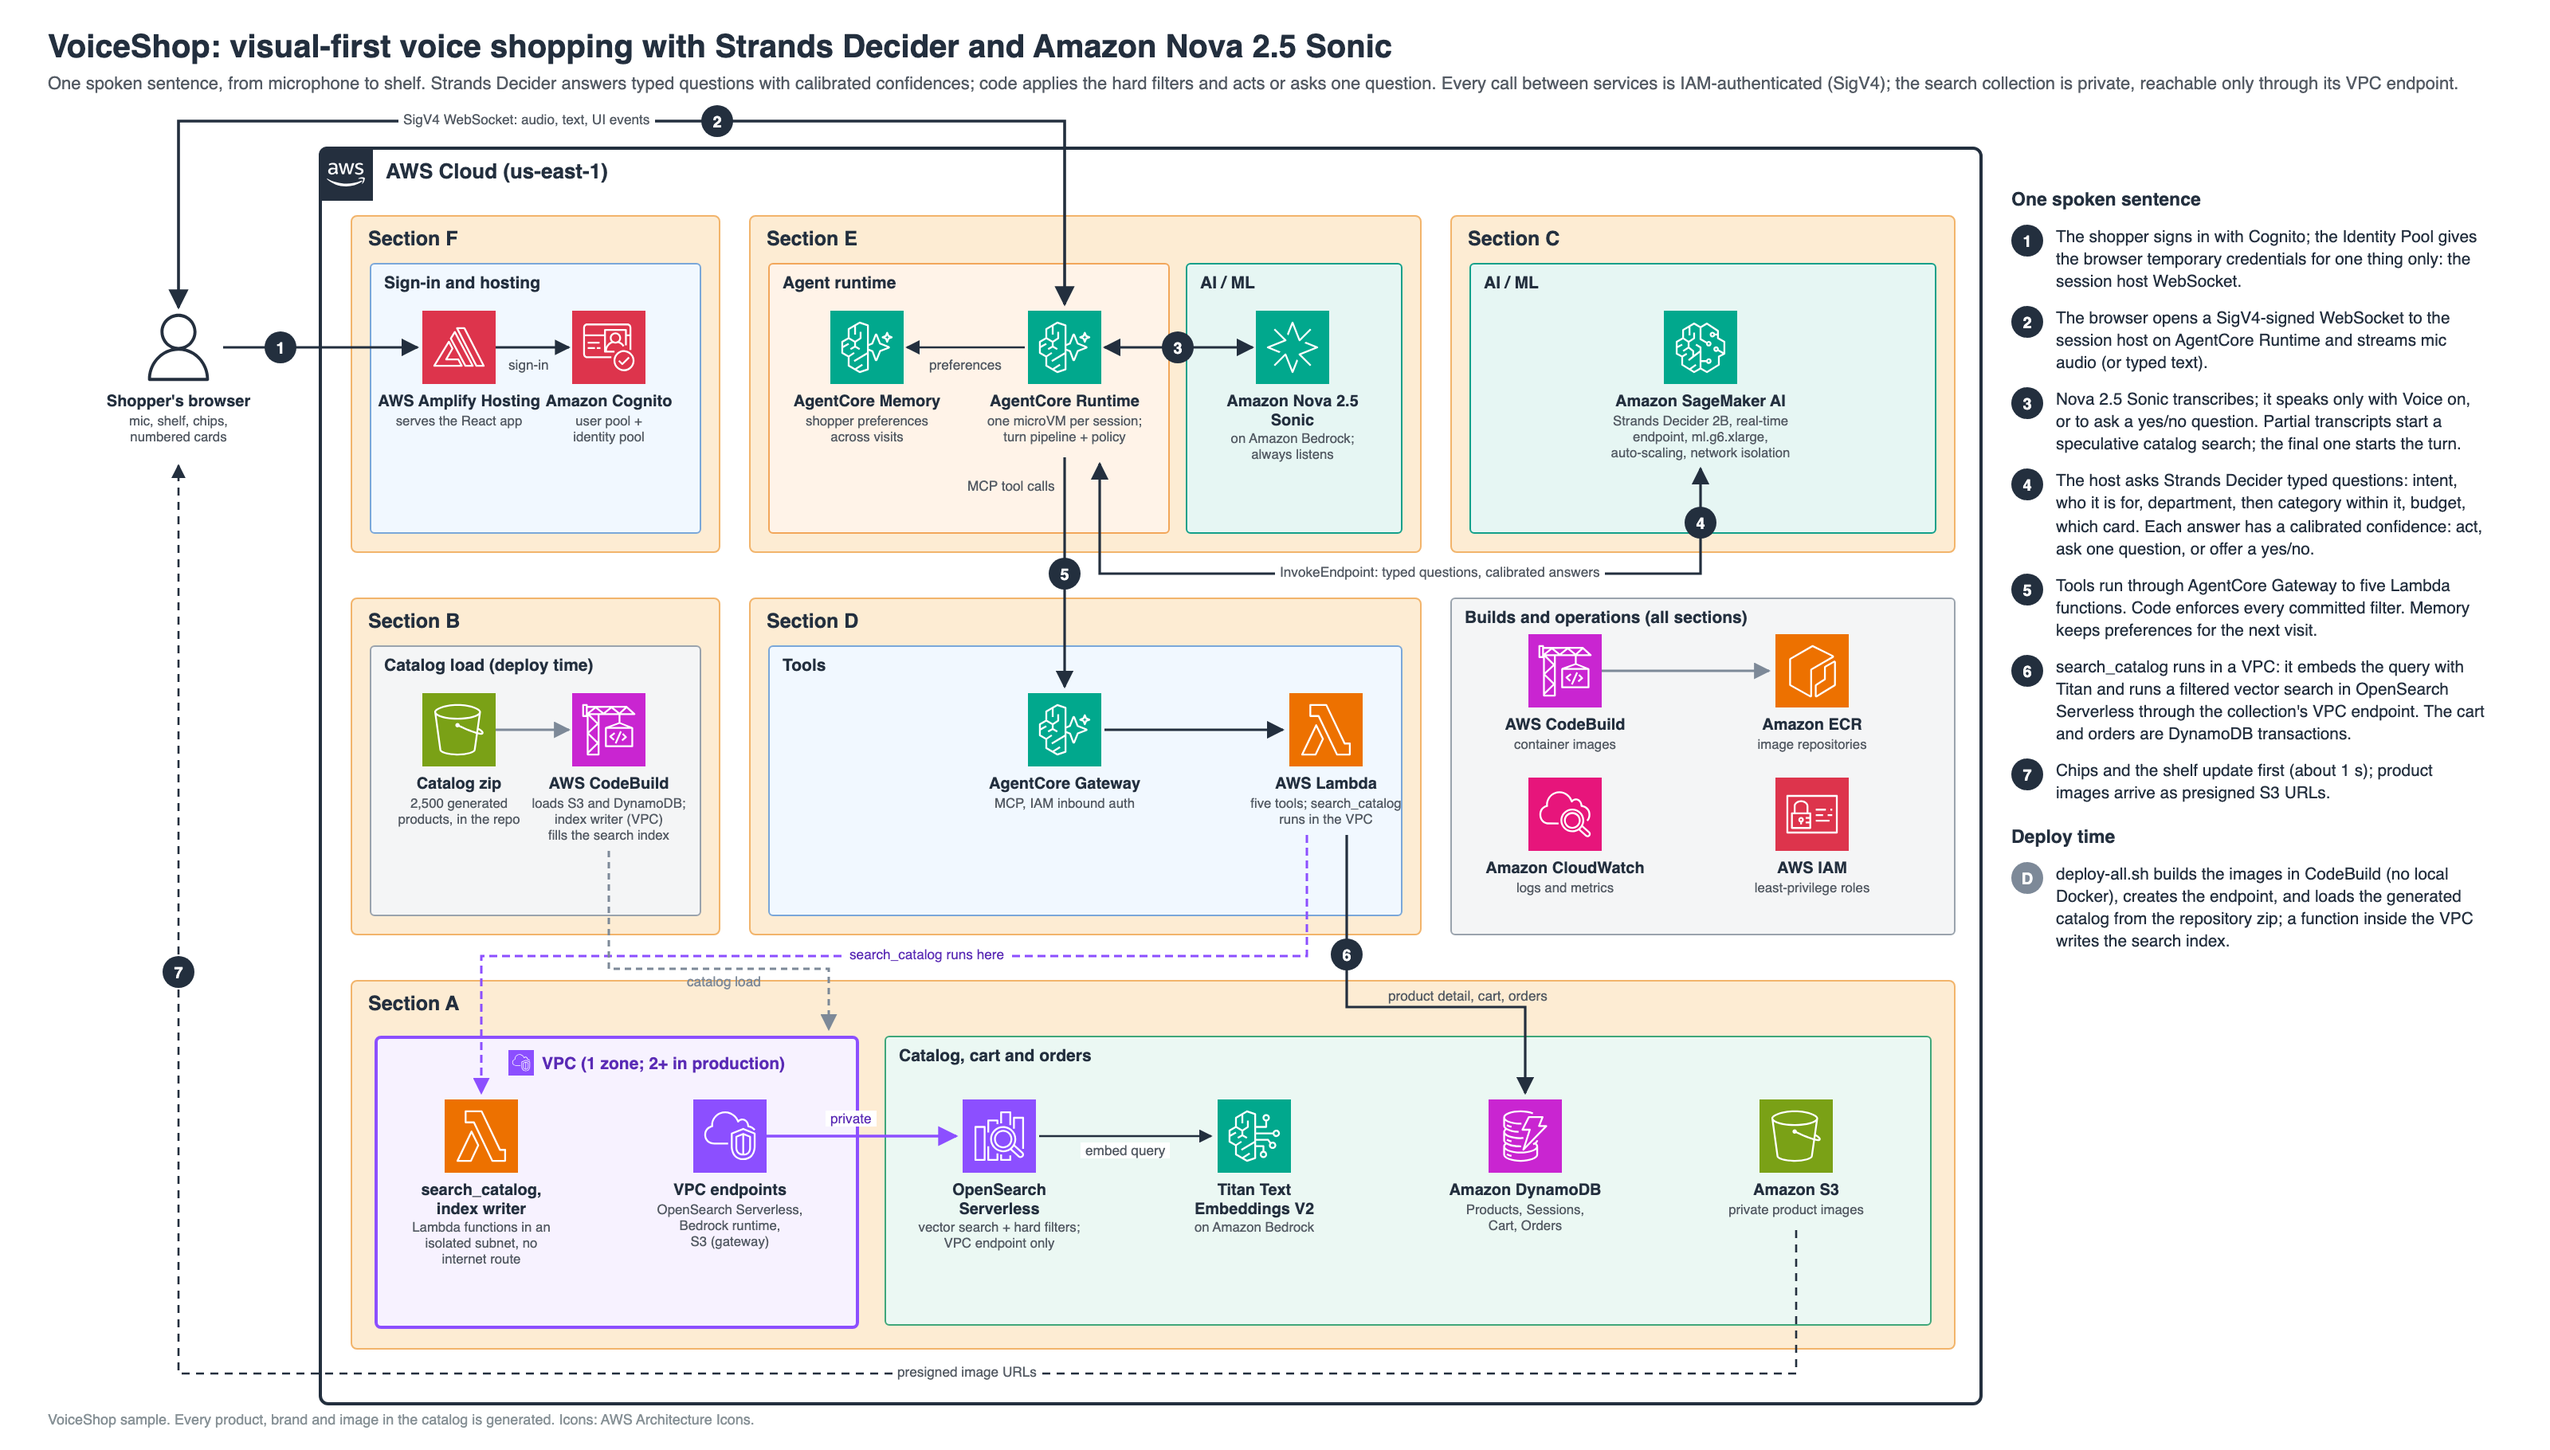
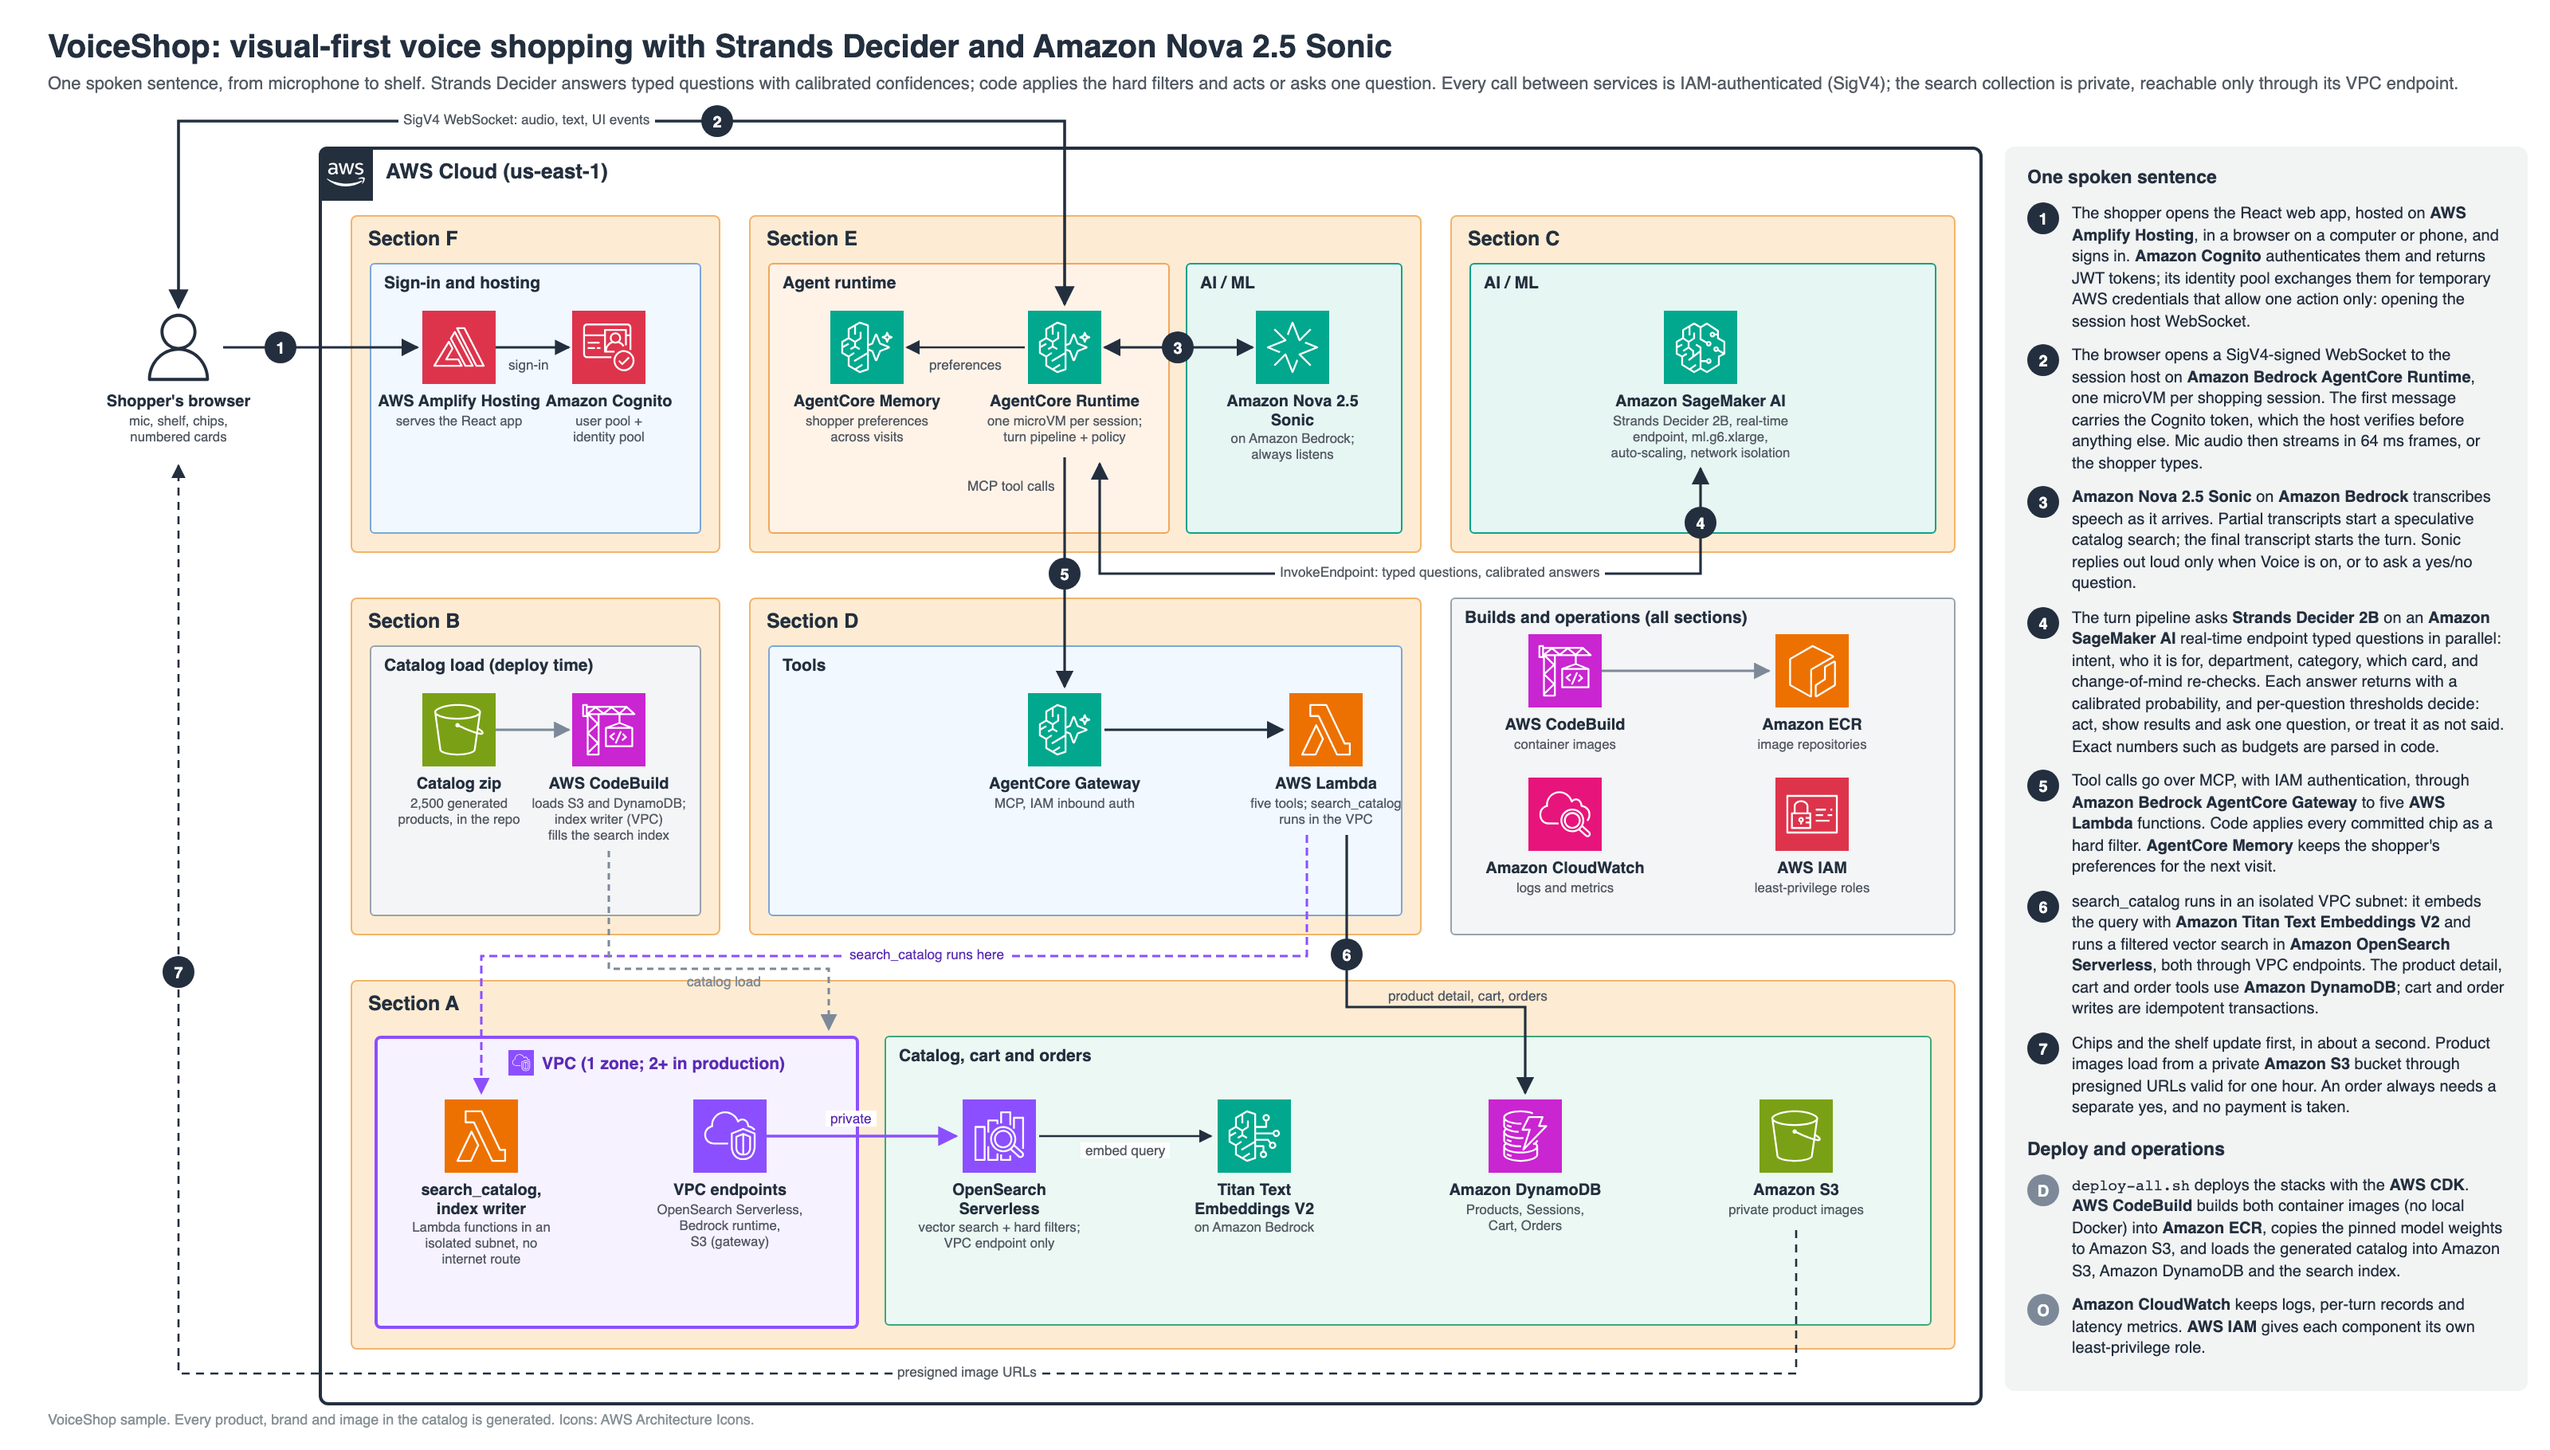
Architecture diagram: descriptive step notes with bold service names

Changed region(s): [[0.7812, 0.1231, 0.9688, 0.9538]]

diff --git a/assets/architecture-diagram-source.html b/assets/architecture-diagram-source.html
@@ -32,9 +32,11 @@
   .svc .n{font-size:10px;font-weight:600;margin-top:5px;line-height:1.15;}
   .svc .d{font-size:8.4px;color:#545B64;line-height:1.2;margin-top:2px;}
   .step{position:absolute;width:20px;height:20px;border-radius:50%;background:#232F3E;color:#fff;font-size:10px;font-weight:bold;text-align:center;line-height:20px;z-index:6;}
-  .notes{position:absolute;left:1262px;top:118px;width:300px;font-size:10.4px;}
+  .notes{position:absolute;left:1258px;top:92px;width:300px;padding:12px 14px;font-size:10px;background:#F2F3F3;border-radius:6px;}
+  .notes b{font-weight:700;}
+  .notes code{font-size:9.5px;}
   .notes h3{font-size:11.5px;margin:0 0 9px 0;}
-  .notes .row{display:flex;margin-bottom:9px;}
+  .notes .row{display:flex;margin-bottom:8px;}
   .notes .b{flex:0 0 20px;height:20px;border-radius:50%;background:#232F3E;color:#fff;font-size:10px;font-weight:bold;text-align:center;line-height:20px;margin-right:8px;}
   .notes .b.dep{background:#7D8998;}
   .notes .x{flex:1;line-height:1.35;}
@@ -152,15 +154,16 @@
 
   <div class="notes">
     <h3>One spoken sentence</h3>
-    <div class="row"><div class="b">1</div><div class="x">The shopper signs in with Cognito; the Identity Pool gives the browser temporary credentials for one thing only: the session host WebSocket.</div></div>
-    <div class="row"><div class="b">2</div><div class="x">The browser opens a SigV4-signed WebSocket to the session host on AgentCore Runtime and streams mic audio (or typed text).</div></div>
-    <div class="row"><div class="b">3</div><div class="x">Nova 2.5 Sonic transcribes; it speaks only with Voice on, or to ask a yes/no question. Partial transcripts start a speculative catalog search; the final one starts the turn.</div></div>
-    <div class="row"><div class="b">4</div><div class="x">The host asks Strands Decider typed questions: intent, who it is for, department, then category within it, budget, which card. Each answer has a calibrated confidence: act, ask one question, or offer a yes/no.</div></div>
-    <div class="row"><div class="b">5</div><div class="x">Tools run through AgentCore Gateway to five Lambda functions. Code enforces every committed filter. Memory keeps preferences for the next visit.</div></div>
-    <div class="row"><div class="b">6</div><div class="x">search_catalog runs in a VPC: it embeds the query with Titan and runs a filtered vector search in OpenSearch Serverless through the collection's VPC endpoint. The cart and orders are DynamoDB transactions.</div></div>
-    <div class="row"><div class="b">7</div><div class="x">Chips and the shelf update first (about 1 s); product images arrive as presigned S3 URLs.</div></div>
-    <h3 style="margin-top:14px;">Deploy time</h3>
-    <div class="row"><div class="b dep">D</div><div class="x">deploy-all.sh builds the images in CodeBuild (no local Docker), creates the endpoint, and loads the generated catalog from the repository zip; a function inside the VPC writes the search index.</div></div>
+    <div class="row"><div class="b">1</div><div class="x">The shopper opens the React web app, hosted on <b>AWS Amplify Hosting</b>, in a browser on a computer or phone, and signs in. <b>Amazon Cognito</b> authenticates them and returns JWT tokens; its identity pool exchanges them for temporary AWS credentials that allow one action only: opening the session host WebSocket.</div></div>
+    <div class="row"><div class="b">2</div><div class="x">The browser opens a SigV4-signed WebSocket to the session host on <b>Amazon Bedrock AgentCore Runtime</b>, one microVM per shopping session. The first message carries the Cognito token, which the host verifies before anything else. Mic audio then streams in 64 ms frames, or the shopper types.</div></div>
+    <div class="row"><div class="b">3</div><div class="x"><b>Amazon Nova 2.5 Sonic</b> on <b>Amazon Bedrock</b> transcribes speech as it arrives. Partial transcripts start a speculative catalog search; the final transcript starts the turn. Sonic replies out loud only when Voice is on, or to ask a yes/no question.</div></div>
+    <div class="row"><div class="b">4</div><div class="x">The turn pipeline asks <b>Strands Decider 2B</b> on an <b>Amazon SageMaker AI</b> real-time endpoint typed questions in parallel: intent, who it is for, department, category, which card, and change-of-mind re-checks. Each answer returns with a calibrated probability, and per-question thresholds decide: act, show results and ask one question, or treat it as not said. Exact numbers such as budgets are parsed in code.</div></div>
+    <div class="row"><div class="b">5</div><div class="x">Tool calls go over MCP, with IAM authentication, through <b>Amazon Bedrock AgentCore Gateway</b> to five <b>AWS Lambda</b> functions. Code applies every committed chip as a hard filter. <b>AgentCore Memory</b> keeps the shopper&#39;s preferences for the next visit.</div></div>
+    <div class="row"><div class="b">6</div><div class="x">search_catalog runs in an isolated VPC subnet: it embeds the query with <b>Amazon Titan Text Embeddings V2</b> and runs a filtered vector search in <b>Amazon OpenSearch Serverless</b>, both through VPC endpoints. The product detail, cart and order tools use <b>Amazon DynamoDB</b>; cart and order writes are idempotent transactions.</div></div>
+    <div class="row"><div class="b">7</div><div class="x">Chips and the shelf update first, in about a second. Product images load from a private <b>Amazon S3</b> bucket through presigned URLs valid for one hour. An order always needs a separate yes, and no payment is taken.</div></div>
+    <h3 style="margin-top:12px;">Deploy and operations</h3>
+    <div class="row"><div class="b dep">D</div><div class="x"><code>deploy-all.sh</code> deploys the stacks with the <b>AWS CDK</b>. <b>AWS CodeBuild</b> builds both container images (no local Docker) into <b>Amazon ECR</b>, copies the pinned model weights to Amazon S3, and loads the generated catalog into Amazon S3, Amazon DynamoDB and the search index.</div></div>
+    <div class="row"><div class="b dep">O</div><div class="x"><b>Amazon CloudWatch</b> keeps logs, per-turn records and latency metrics. <b>AWS IAM</b> gives each component its own least-privilege role.</div></div>
   </div>
 
   <div class="foot">VoiceShop sample. Every product, brand and image in the catalog is generated. Icons: AWS Architecture Icons.</div>
